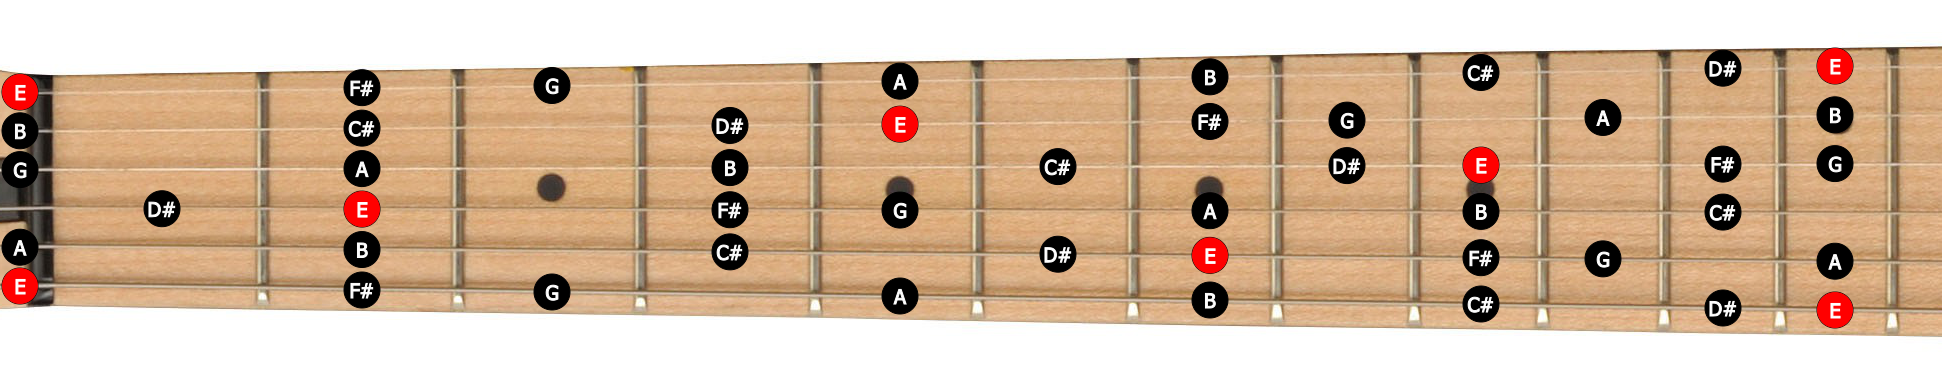
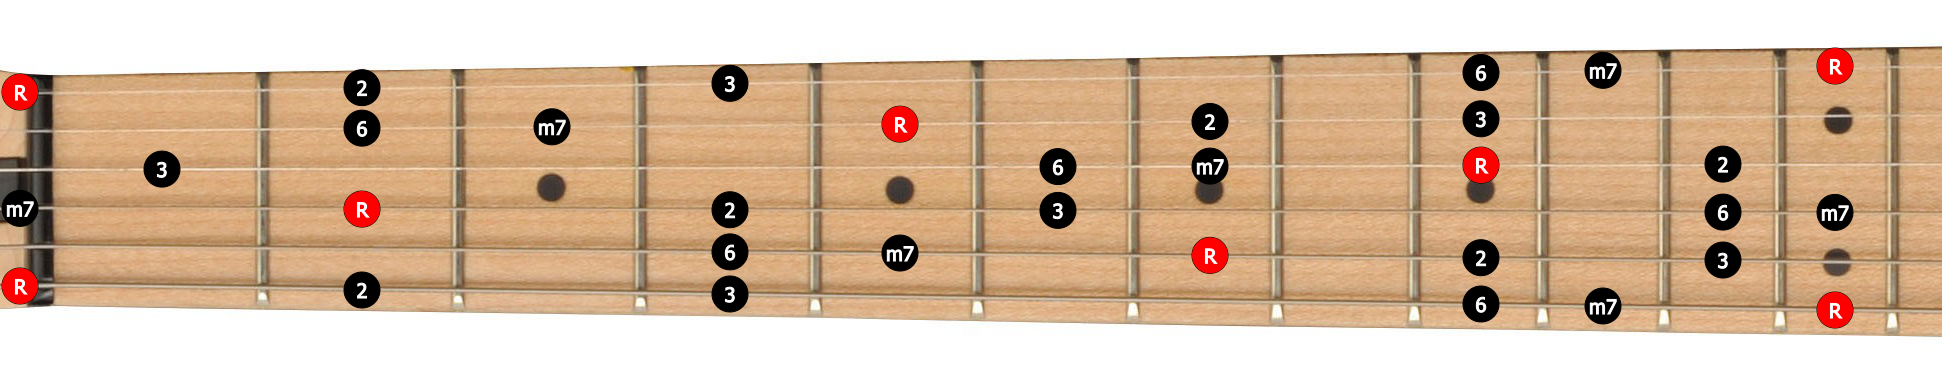
Choosing from interval / note

diff --git a/src/App.vue b/src/App.vue
@@ -122,6 +122,13 @@
     </select>
   </div>
 
+  <div class="value">
+    <input type="radio" id="note" name="value" value="note" v-model="value">
+    <label for="male">Note</label>
+    <input type="radio" id="interval" name="value" value="interval" v-model="value">
+    <label for="female">Interval</label>
+  </div>
+
     <button class="button" v-on:click="update">Show</button>
     <img id="fretboard" v-if="show === true" src="http://localhost:3000/image" />
     <img class="spinner" v-if="loading" src="./assets/spinner.gif" />
@@ -139,6 +146,7 @@ export default {
       loading: false,
       root: "",
       notes: [],
+      value: 'note',
       string1: '0',
       string2: '5',
       string3: '10',
@@ -152,7 +160,8 @@ export default {
       let data = {
           notes: this.notes,
           root: this.root,
-          tuning: [ this.string1, this.string2, this.string3, this.string4, this.string5, this.string6 ]
+          tuning: [ this.string1, this.string2, this.string3, this.string4, this.string5, this.string6 ],
+          value: this.value
         };
 
         this.show = false;
@@ -196,6 +205,11 @@ input[type='checkbox'] {
   height: 16px;
   margin-left: 30px;
 }
+input[type='radio'] {
+  width: 16px;
+  height: 16px;
+  margin-left: 30px;
+}
 .notes {
   margin-bottom: 20px;
 }
@@ -217,5 +231,8 @@ select #root {
   font-family: Avenir, Helvetica, Arial, sans-serif;
   outline: none;
   margin-bottom: 50px;
+}
+.value {
+  margin-bottom: 30px;
 }
 </style>

diff --git a/api.js b/api.js
@@ -130,6 +130,7 @@ app.post("/update", (req, res, next) => {
   var display = req.body.notes;
   var root = req.body.root
   var tuning = req.body.tuning;
+  var value = req.body.value;
 
   loadImage('./src/assets/fretboard-large.png').then((image) => {
     const canvas = createCanvas(1942, 372)
@@ -140,8 +141,12 @@ app.post("/update", (req, res, next) => {
       for (var string = 0; string < 6; string++) {
         var note = getNote(tuning, fret, string);
         if (display.indexOf(note + '') > -1) {
-          // var text = getNoteInterval(root, note);
-          var text = getNoteName(note);
+          var text = "";
+          if (value == 'interval') {
+            text = getNoteInterval(root, note);
+          } else if (value == 'note') {
+            text = getNoteName(note);
+          }
           drawNote(ctx, fret, string, root == note, text);
         }
       }
